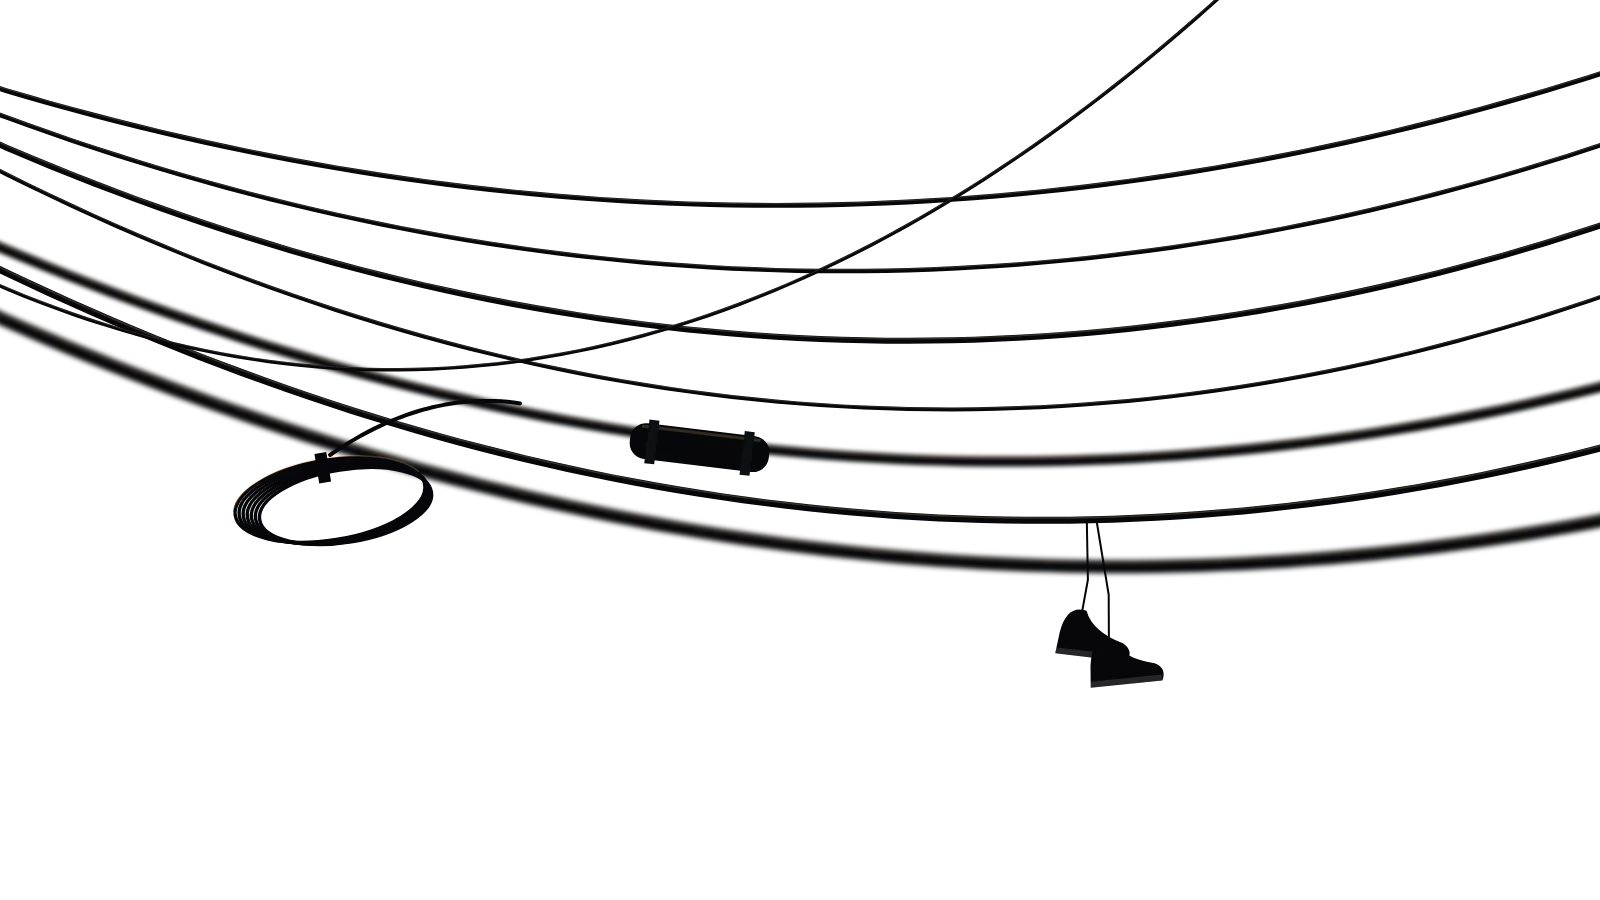
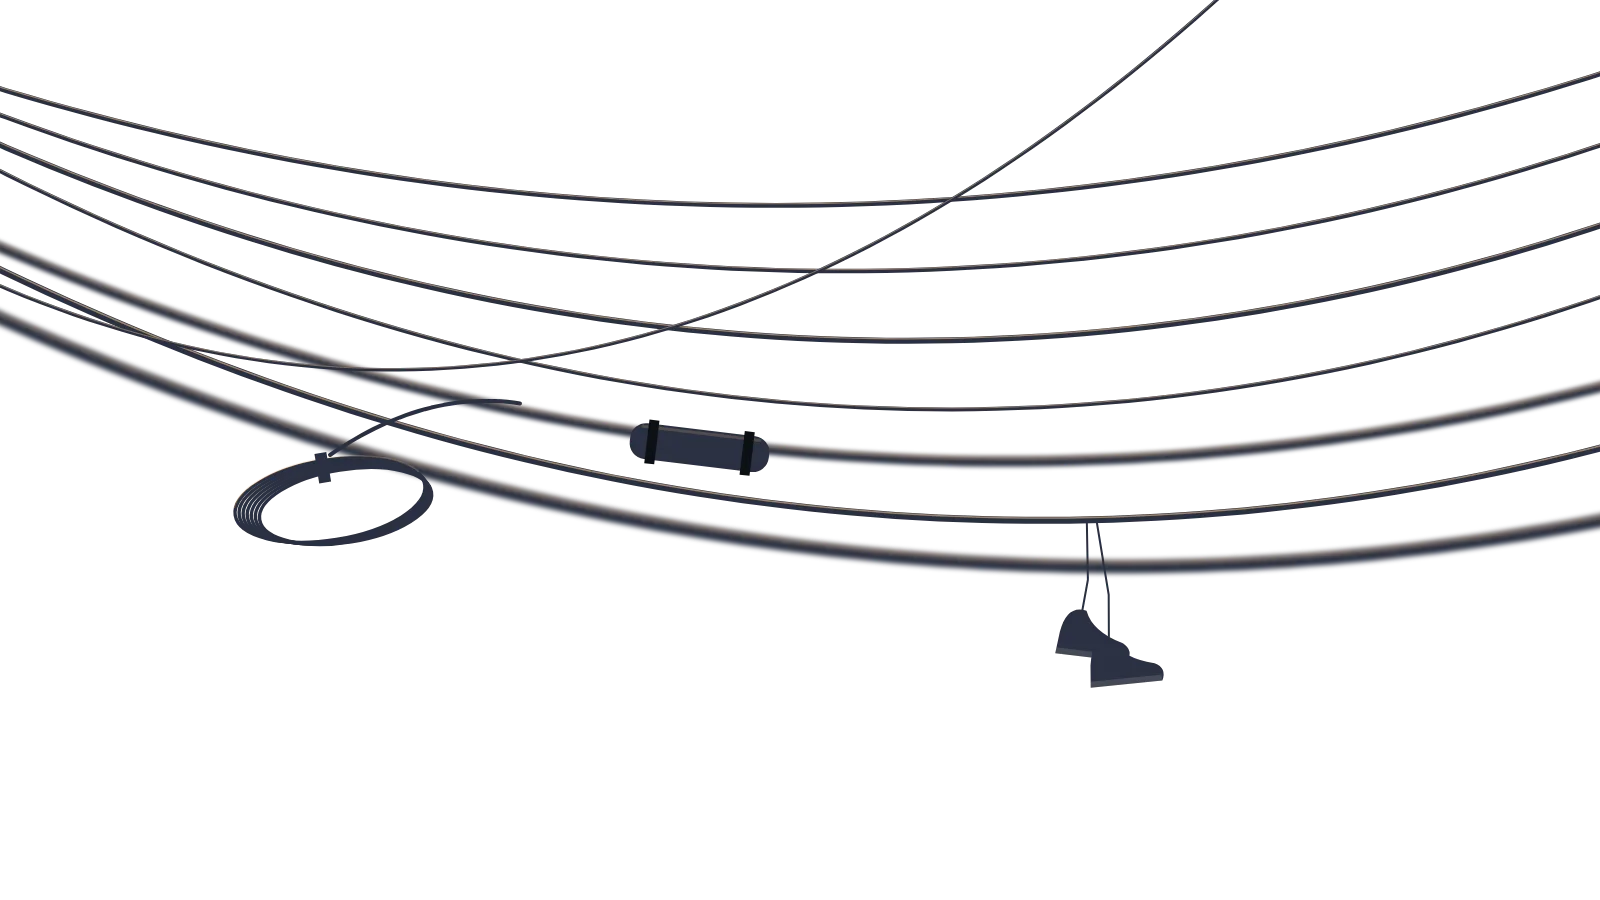
Escena 3D de noche: ramas, hojas, fachadas y plantas se distinguen
De noche la luz ambiente y la de luna estaban tan bajas que todo lo que no
tocaba un farol se iba a negro: la rama de plátano del primer plano y los
cables eran siluetas casi negras contra el cielo, las fachadas se veían como
bloques, y los árboles, la planta de la vitrina y los autos eran manchas.

- palette.ts: noche de luna llena (hemi 0.55→0.95, luna 0.5→0.95, exposición 1.1).
- Rama de plátano y cables repintados en tonos de luna (verdes, corteza, borde
  iluminado) en scripts/landing/primeros-planos.html; webp regenerados.
- Fachadas, follaje y planta de la vitrina con un brillo tenue que usa su
  propia textura: se lee el dibujo, no una mancha. De día no se nota.

Claude-Session: https://claude.ai/code/session_01X3hrqh68z6KNZ2fsbRGxr2

diff --git a/scripts/landing/primeros-planos.html b/scripts/landing/primeros-planos.html
@@ -120,7 +120,16 @@
         g.strokeStyle = rimGrad
         g.lineWidth = Math.max(1.2, r * 0.035)
         g.stroke(path)
-        // Nervaduras apenas visibles
+        // Luz de luna del lado de arriba: separa la hoja del cielo nocturno
+        if (tone.moon) {
+          const moonGrad = g.createLinearGradient(r, -r, -r * 0.2, r * 0.2)
+          moonGrad.addColorStop(0, tone.moon)
+          moonGrad.addColorStop(0.55, 'rgba(0,0,0,0)')
+          g.strokeStyle = moonGrad
+          g.lineWidth = Math.max(1.4, r * 0.05)
+          g.stroke(path)
+        }
+        // Nervaduras
         g.strokeStyle = tone.vein
         g.lineWidth = Math.max(0.8, r * 0.022)
         for (const a of [-1.15, -0.55, 0, 0.55, 1.15]) {
@@ -158,7 +167,8 @@
       // 1) Cables del alumbrado y de telecomunicaciones: convergen a una cruceta fuera de cuadro
       sheet('cables', 1600, 900, (g, w, h) => {
         const rand = rng(11)
-        const ink = '#05070a'
+        // Gris azulado con brillo de farol: negro puro desaparecía contra el cielo nocturno
+        const ink = '#2a3142'
         const draw = (pts, width, rim, blur = 0) => {
           g.save()
           if (blur) g.filter = `blur(${blur}px)`
@@ -198,10 +208,10 @@
         const widths = [5, 4.5, 6, 4, 10, 7, 3.5]
         const sags = [150, 170, 185, 205, 160, 175, 230]
         const paths = anchors.map((a, i) => catenary(a, ends[i], sags[i]))
-        paths.forEach((pts, i) => draw(pts, widths[i], 'rgba(255,186,120,0.22)', widths[i] > 8 ? 2.2 : 0))
+        paths.forEach((pts, i) => draw(pts, widths[i], 'rgba(255,196,135,0.55)', widths[i] > 8 ? 2.2 : 0))
         // Cable trenzado de baja tensión (más grueso, con textura)
         const twisted = catenary([-40, 300], [1700, 500], 150)
-        draw(twisted, 13, 'rgba(255,186,120,0.18)', 2.5)
+        draw(twisted, 13, 'rgba(255,196,135,0.45)', 2.5)
         g.save()
         g.filter = 'blur(2px)'
         g.strokeStyle = 'rgba(255,255,255,0.05)'
@@ -281,7 +291,9 @@
       // 2) Rama de plátano oriental, de noche: siluetas con luz de farol en el borde
       sheet('platano', 1400, 1100, (g, w, h) => {
         const rand = rng(23)
-        const bark = '#07090b'
+        // De noche, pero legible: verdes y corteza a la luz de la luna, no siluetas negras
+        // (casi negro se fundía con el cielo oscuro y no se distinguían ramas ni hojas)
+        const bark = '#4a4038'
         const main = bez([1480, -80], [1200, 120], [960, 230], [620, 470], 60)
         taper(g, main, 52, 12, bark)
         const branches = [
@@ -293,6 +305,10 @@
           bez(main[42], [700, 380], [560, 360], [420, 400], 40),
         ]
         branches.forEach((b, i) => taper(g, b, 18 - i * 1.6, 3, bark))
+        // Filo de luna en el lomo de la madera: le da volumen a tronco y ramas
+        const up = (pts, dy) => pts.map(([x, y]) => [x, y - dy])
+        taper(g, up(main, 14), 12, 3, 'rgba(200,215,240,0.4)')
+        branches.forEach((b, i) => taper(g, up(b, 5 - i * 0.4), 4.5 - i * 0.4, 1, 'rgba(200,215,240,0.35)'))
         const twigs = []
         for (const b of [main, ...branches]) {
           for (let k = 0; k < 7; k += 1) {
@@ -305,9 +321,9 @@
           }
         }
         const tones = [
-          { lit: '#1d2a20', mid: '#0b110d', dark: '#040605', rim: 'rgba(255,170,90,0.6)', vein: 'rgba(255,200,140,0.08)' },
-          { lit: '#16211a', mid: '#090e0b', dark: '#030504', rim: 'rgba(255,170,90,0.45)', vein: 'rgba(255,200,140,0.06)' },
-          { lit: '#121a1c', mid: '#080c0d', dark: '#030405', rim: 'rgba(150,180,255,0.28)', vein: 'rgba(200,220,255,0.05)' },
+          { lit: '#6f9a5c', mid: '#3f6438', dark: '#203a22', rim: 'rgba(255,180,105,0.8)', moon: 'rgba(190,210,255,0.55)', vein: 'rgba(225,240,190,0.22)' },
+          { lit: '#5e8a52', mid: '#355a33', dark: '#1a321d', rim: 'rgba(255,180,105,0.65)', moon: 'rgba(190,210,255,0.5)', vein: 'rgba(225,240,190,0.18)' },
+          { lit: '#5b8076', mid: '#33554c', dark: '#192f2a', rim: 'rgba(170,195,255,0.55)', moon: 'rgba(200,220,255,0.6)', vein: 'rgba(210,230,255,0.18)' },
         ]
         // Primero las hojas más lejanas (chicas), al final las cercanas y desenfocadas
         const leaves = []
@@ -342,7 +358,7 @@
           g.moveTo(p[0], p[1])
           g.quadraticCurveTo(p[0] + 14, p[1] + len * 0.5, p[0] + 5, p[1] + len)
           g.stroke()
-          seedBall(g, p[0] + 5, p[1] + len + 15, 14 + rand() * 5, rand, '#080a0a', 'rgba(255,175,95,0.5)')
+          seedBall(g, p[0] + 5, p[1] + len + 15, 14 + rand() * 5, rand, '#6a5a44', 'rgba(255,195,125,0.85)')
         }
       })
 

diff --git a/app/_landing/world/city.ts b/app/_landing/world/city.ts
@@ -223,7 +223,17 @@ export function createCity(scene: THREE.Scene, opts: { lite: boolean; reserved: 
     add({ x, w: 10 + rand() * 10, h, z: -95 - rand() * 50, d: 12, color: rand() > 0.5 ? '#4f5866' : '#5d636b', lit: 0.3 })
   }
 
-  const buildingMat = new THREE.MeshStandardMaterial({ map: facade, vertexColors: true, roughness: 0.92, metalness: 0 })
+  // Un brillo de luna tenue en la fachada (con su propia textura): de noche se leen
+  // ladrillos, pisos y balcones en vez de bloques negros; de día no se nota.
+  const buildingMat = new THREE.MeshStandardMaterial({
+    map: facade,
+    vertexColors: true,
+    roughness: 0.92,
+    metalness: 0,
+    emissive: '#56627e',
+    emissiveMap: facade,
+    emissiveIntensity: 0.32,
+  })
   const buildings = new THREE.Mesh(mergeGeometries(buildingGeos), buildingMat)
   buildings.castShadow = true
   buildings.receiveShadow = true
@@ -482,18 +492,22 @@ export function createCity(scene: THREE.Scene, opts: { lite: boolean; reserved: 
   // mantiene oscuros (no es de día) pero legibles como forma, como se ven bajo luna real.
   const trunks = new THREE.Mesh(
     mergeGeometries(trunkGeos),
-    new THREE.MeshStandardMaterial({ map: bark, roughness: 0.9, emissive: '#2a3550', emissiveIntensity: 0.3 }),
+    new THREE.MeshStandardMaterial({ map: bark, roughness: 0.9, emissive: '#3a4566', emissiveIntensity: 0.45 }),
   )
   trunks.castShadow = true
   scene.add(trunks)
+  // El emissive lleva la misma textura de hojas: brilla el follaje con su dibujo, no
+  // una mancha pareja (se nota sobre todo en la vista aérea de noche).
+  const leafTex = leafClusterTexture()
   const leafMat = new THREE.MeshStandardMaterial({
-    map: leafClusterTexture(),
+    map: leafTex,
     alphaTest: 0.45,
     side: THREE.DoubleSide,
     roughness: 0.75,
     color: '#9fb88a',
-    emissive: '#2c3a2c',
-    emissiveIntensity: 0.3,
+    emissive: '#a6d79a',
+    emissiveMap: leafTex,
+    emissiveIntensity: 0.75,
   })
   const leaves = new THREE.InstancedMesh(new THREE.PlaneGeometry(1.4, 1.4), leafMat, leafMatrices.length)
   leafMatrices.forEach((m, i) => leaves.setMatrixAt(i, m))

diff --git a/app/_landing/world/shop.ts b/app/_landing/world/shop.ts
@@ -172,7 +172,10 @@ export function createShop(scene: THREE.Scene) {
   const pot = new THREE.Mesh(new THREE.CylinderGeometry(0.22, 0.17, 0.42, 14), new THREE.MeshStandardMaterial({ color: '#c8b8a6', roughness: 0.8 }))
   pot.position.set(2.6, 0.21, 2.4)
   group.add(pot)
-  const plantMat = new THREE.MeshStandardMaterial({ map: leafClusterTexture(), alphaTest: 0.45, side: THREE.DoubleSide, color: '#7fa86a' })
+  // A contraluz de la vitrina la planta quedaba como mancha negra: un emissive con su
+  // propia textura deja ver las hojas.
+  const plantTex = leafClusterTexture()
+  const plantMat = new THREE.MeshStandardMaterial({ map: plantTex, alphaTest: 0.45, side: THREE.DoubleSide, color: '#7fa86a', emissive: '#9fd08a', emissiveMap: plantTex, emissiveIntensity: 0.5 })
   for (let i = 0; i < 6; i += 1) {
     const leaf = new THREE.Mesh(new THREE.PlaneGeometry(0.7, 0.7), plantMat)
     leaf.position.set(2.6 + (rand() - 0.5) * 0.3, 0.75 + rand() * 0.45, 2.4 + (rand() - 0.5) * 0.3)

diff --git a/app/_landing/world/palette.ts b/app/_landing/world/palette.ts
@@ -34,24 +34,26 @@ export interface Light {
 
 const C = (hex: string) => new THREE.Color(hex)
 
+// Noche de luna llena: oscura, pero con fachadas, árboles, plantas y autos legibles.
+// Con hemi 0.55 / key 0.5 todo lo que no tocaba un farol se iba a negro.
 const NIGHT: Light = {
   skyTop: C('#03050c'),
   skyMid: C('#0a1226'),
   skyHorizon: C('#142141'),
   fog: C('#0a1122'),
   fogDensity: 0.005,
-  hemiSky: C('#4d6aa8'),
-  hemiGround: C('#1a1410'),
-  hemi: 0.55,
-  key: C('#8fa6e8'),
-  keyIntensity: 0.5,
+  hemiSky: C('#6582c4'),
+  hemiGround: C('#2c241b'),
+  hemi: 0.95,
+  key: C('#a3b7f0'),
+  keyIntensity: 0.95,
   sunHeight: -1,
   moon: 1,
   stars: 1,
   lamps: 1,
   windows: 1,
   ridge: new THREE.Color(1, 1, 1),
-  exposure: 1,
+  exposure: 1.1,
   wet: 1,
   mist: 1,
 }
